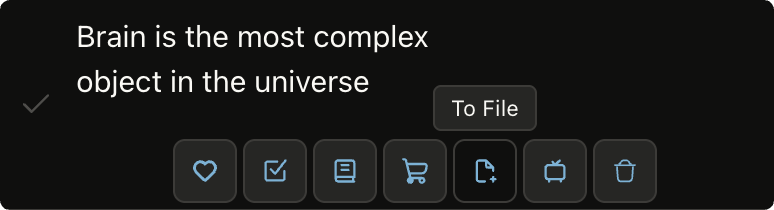
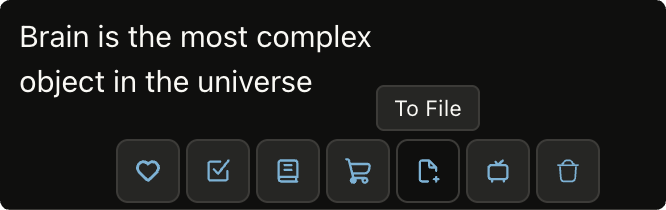
fix renaming current file

diff --git a/tests/sidebar.spec.js b/tests/sidebar.spec.js
@@ -102,6 +102,35 @@ test('file ctx menu: rename', async ({page}) => {
     await expect(page.locator('#tree .tree-item:text-is("README")')).toHaveCount(0);
 });
 
+// Regression: renaming a file that is currently open in the editor used to
+// be silently undone. The editor still showed `# README` while the path was
+// already `/Renamed.md`, so the rename-from-header watcher in
+// syncCurrentText (files.js:1198) saw a "filename change" back to README.md
+// on its next tick and reverted the rename.
+test('file ctx menu: rename of open file is not reverted by header watcher', async ({page}) => {
+    test.setTimeout(15000);
+    await setupSidebar(page);
+
+    await page.click('#tree .tree-item:text-is("README")');
+    await page.waitForTimeout(200);
+    expect(await page.evaluate(() => document.querySelector('.CodeMirror').CodeMirror.getValue()))
+        .toBe('# README\nHello world');
+
+    page.once('dialog', d => d.accept('Renamed'));
+    await rightClickNode(page, 'README');
+    await clickMenuItem(page, 'Rename');
+
+    // Wait past CURRENT_FILE_SYNC_INTERVAL (1000ms) so the periodic sync,
+    // which is what used to revert the rename, has had a chance to fire.
+    await page.waitForTimeout(2500);
+
+    await expect(page.locator('#tree .tree-item:text-is("Renamed")')).toBeVisible();
+    await expect(page.locator('#tree .tree-item:text-is("README")')).toHaveCount(0);
+
+    expect(await page.evaluate(() => document.querySelector('.CodeMirror').CodeMirror.getValue()))
+        .toBe('# Renamed\nHello world');
+});
+
 test('file ctx menu: move opens the move modal', async ({page}) => {
     await setupSidebar(page);
 

diff --git a/web/lib/sidebar.js b/web/lib/sidebar.js
@@ -1462,7 +1462,22 @@ function buildFileMenu(item, filePath) {
         const newPath = (parentDir === '/' ? '' : parentDir) + '/' + finalName;
         try {
             await moveFile(filePath, newPath);
-            if (isCurrent) currentEditor.path = newPath;
+            if (isCurrent) {
+                currentEditor.path = newPath;
+                // Editor still shows the old `# OldName` heading. The
+                // rename-from-header watcher in syncCurrentText will see
+                // the heading disagree with the new path and rename the
+                // file back, so rewrite line 0 to the new header.
+                const newHeader = toHeader(toFilename(newPath));
+                const firstLine = currentEditor.getLine(0) || '';
+                if (firstLine !== newHeader) {
+                    currentEditor.replaceRange(
+                        newHeader,
+                        { line: 0, ch: 0 },
+                        { line: 0, ch: firstLine.length }
+                    );
+                }
+            }
             await renderSidebar();
         } catch (err) {
             console.error('rename failed', err);

diff --git a/README.md b/README.md
@@ -258,9 +258,9 @@ go run /abs/path/to/files.md/cmd/shifttime/shifttime.go
 
 ## Documentation
 [Deploy on your own server](docs/your-own-server.md)    
-[Bot](docs/bot.md)    
-[Integration tests](docs/integration-tests.md)  
+[Chatbot](docs/bot.md)    
 [Sync flow](docs/sync-flow.md)  
+[Integration tests](docs/integration-tests.md)  
 
 ## Repository structure
 - `web` - web app (PWA), `index.html` is an entrypoint